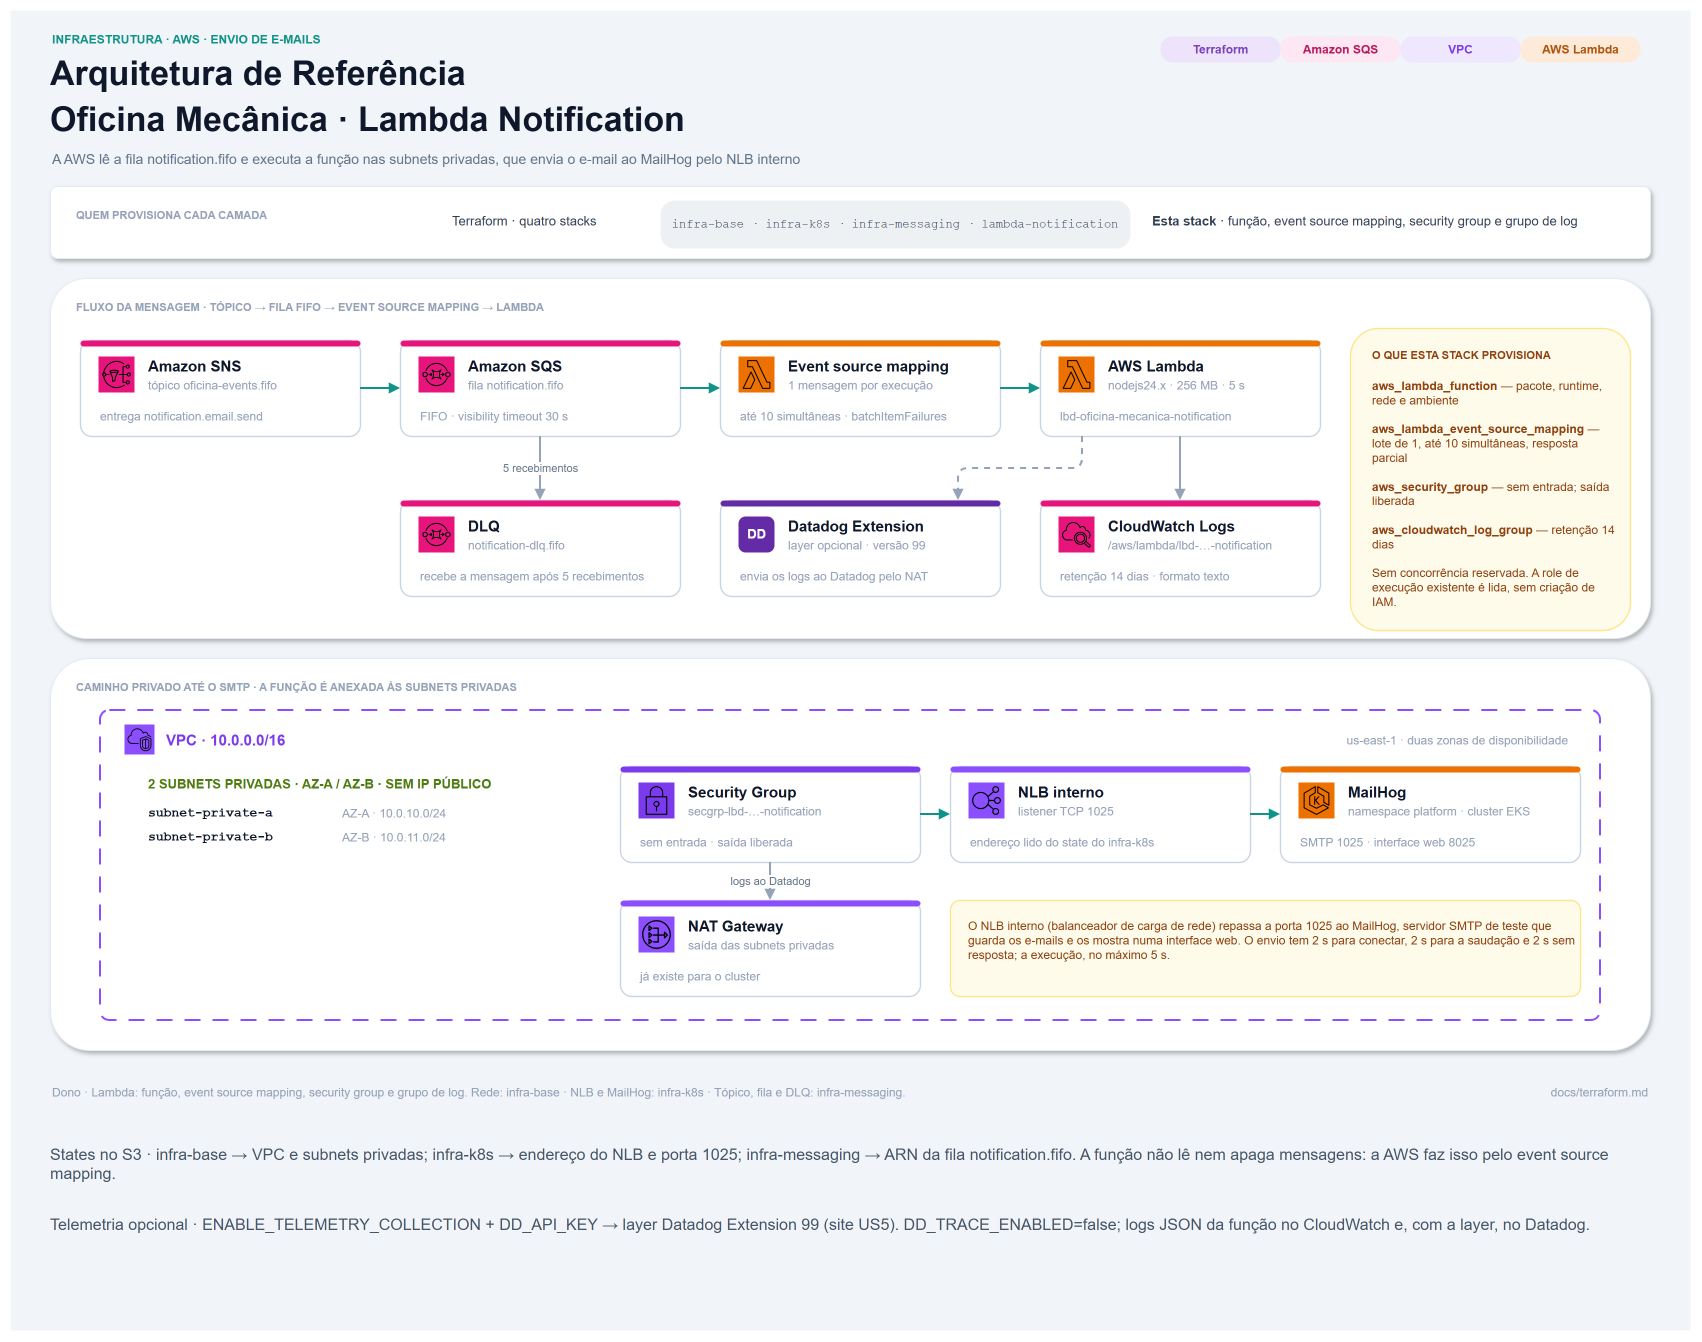
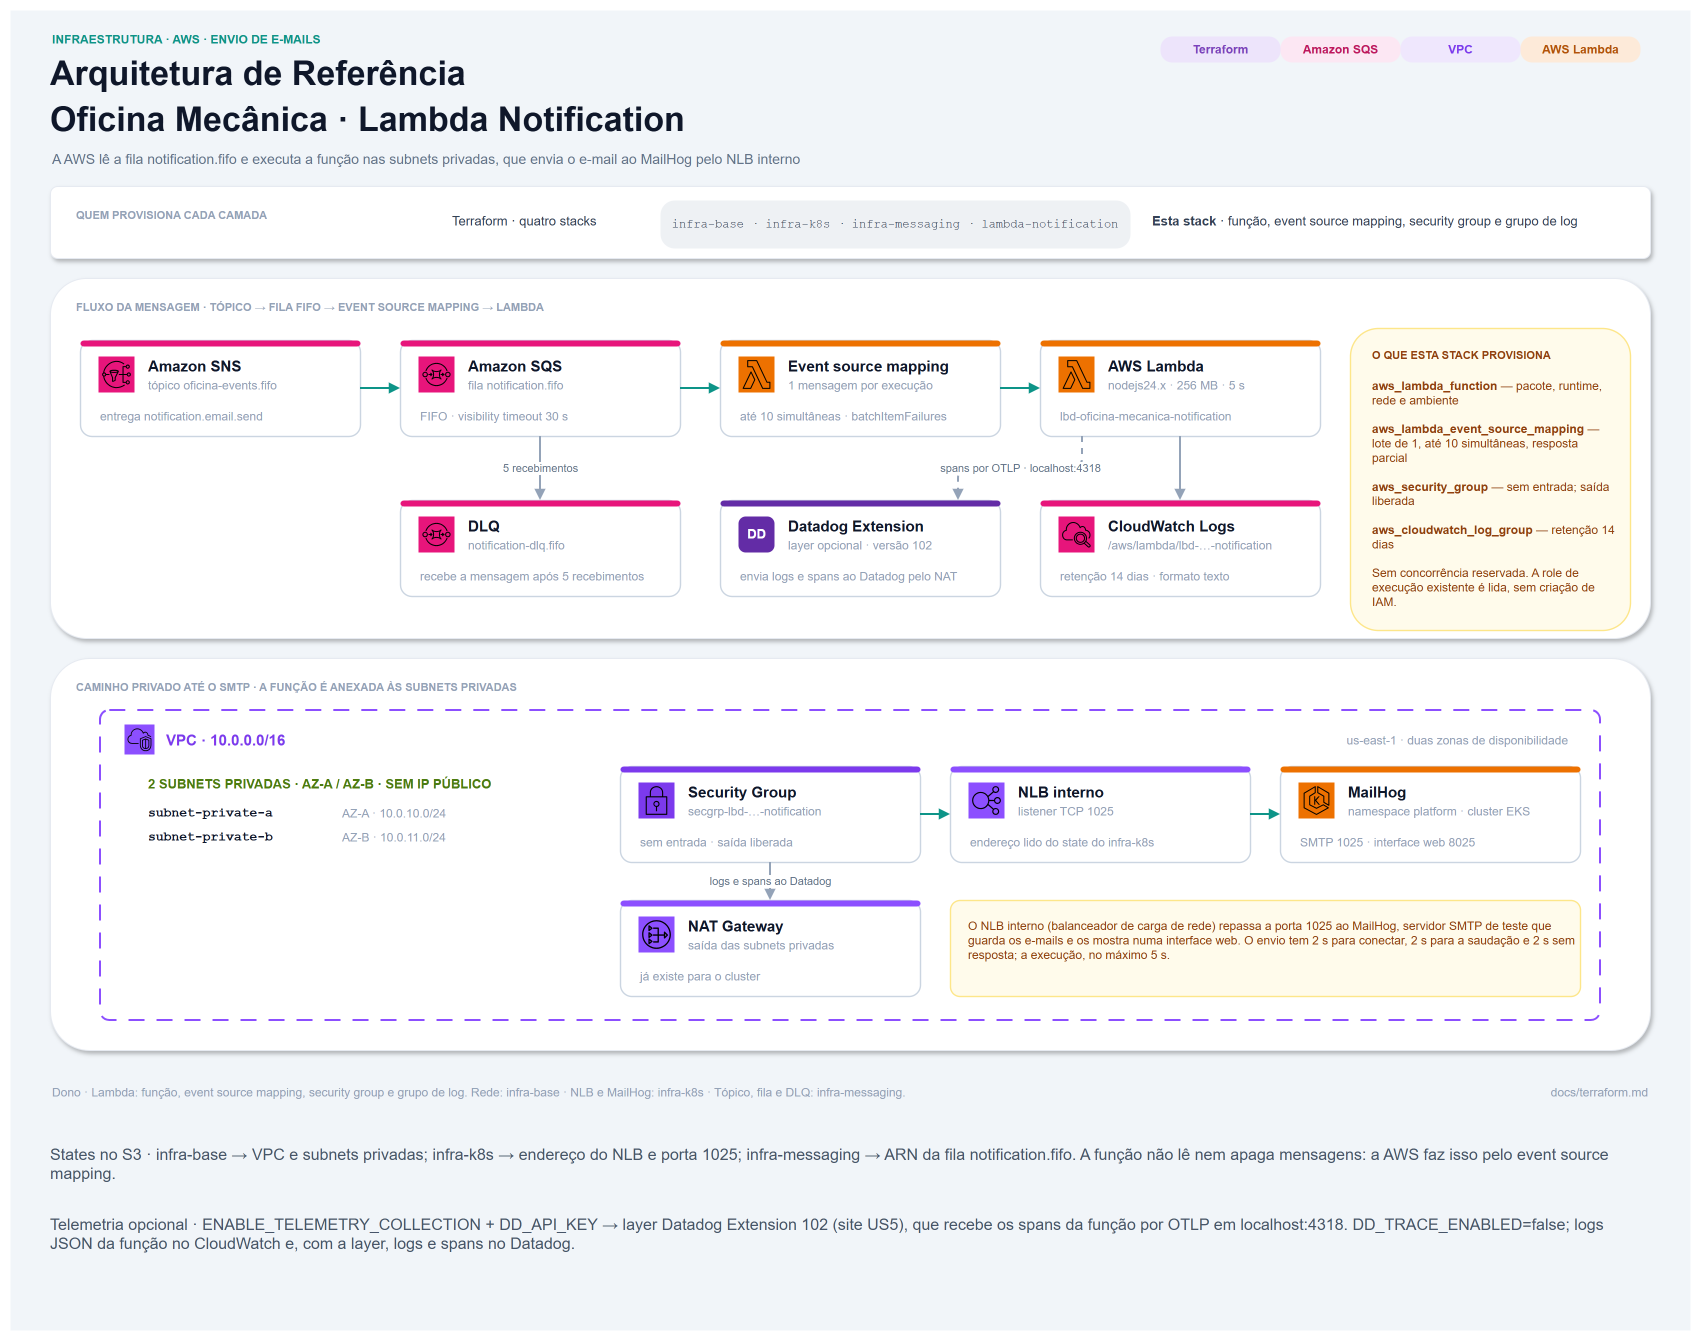
docs: show spans in the infrastructure diagram

diff --git a/docs/architecture.md b/docs/architecture.md
@@ -241,7 +241,7 @@ O Jest não lê o `tsconfig.json`, então declara o mesmo mapa em
 
 ## Como a função roda na AWS
 
-![Infraestrutura: o tópico SNS oficina-events.fifo copia a mensagem para a fila SQS notification.fifo, que manda à DLQ notification-dlq.fifo após 5 recebimentos; o event source mapping entrega uma mensagem por execução, com até 10 execuções simultâneas, à função nas subnets privadas, que envia o e-mail pelo NLB interno na porta 1025 ao MailHog no namespace platform; logs no CloudWatch com retenção de 14 dias](diagrams/infrastructure.png)
+![Infraestrutura: o tópico SNS oficina-events.fifo copia a mensagem para a fila SQS notification.fifo, que manda à DLQ notification-dlq.fifo após 5 recebimentos; o event source mapping entrega uma mensagem por execução, com até 10 execuções simultâneas, à função nas subnets privadas, que envia o e-mail pelo NLB interno na porta 1025 ao MailHog no namespace platform; logs no CloudWatch com retenção de 14 dias e, com a layer opcional do Datadog na versão 102, logs e spans no Datadog, com os spans enviados pela função à extensão por OTLP em localhost:4318](diagrams/infrastructure.png)
 
 **Quem chama a função.** Um *event source mapping* — a configuração da AWS
 Lambda que lê uma fila SQS e executa a função com as mensagens — liga

diff --git a/README.md b/README.md
@@ -37,7 +37,7 @@ Hoje o destino dos e-mails é o **MailHog**, um servidor SMTP de teste que roda 
 cluster Kubernetes da solução: ele aceita os e-mails e os mostra numa caixa de
 entrada web, sem entregá-los a endereços reais.
 
-![Infraestrutura: o tópico SNS oficina-events.fifo copia a mensagem para a fila SQS notification.fifo, que manda à DLQ notification-dlq.fifo após 5 recebimentos; o event source mapping entrega uma mensagem por execução, com até 10 execuções simultâneas, à função nas subnets privadas, que envia o e-mail pelo NLB interno na porta 1025 ao MailHog no namespace platform; logs no CloudWatch e, com a layer opcional do Datadog, no Datadog](docs/diagrams/infrastructure.png)
+![Infraestrutura: o tópico SNS oficina-events.fifo copia a mensagem para a fila SQS notification.fifo, que manda à DLQ notification-dlq.fifo após 5 recebimentos; o event source mapping entrega uma mensagem por execução, com até 10 execuções simultâneas, à função nas subnets privadas, que envia o e-mail pelo NLB interno na porta 1025 ao MailHog no namespace platform; logs no CloudWatch e, com a layer opcional do Datadog na versão 102, logs e spans no Datadog, com os spans enviados pela função à extensão por OTLP em localhost:4318](docs/diagrams/infrastructure.png)
 
 ## 🎯 Responsabilidade
 
